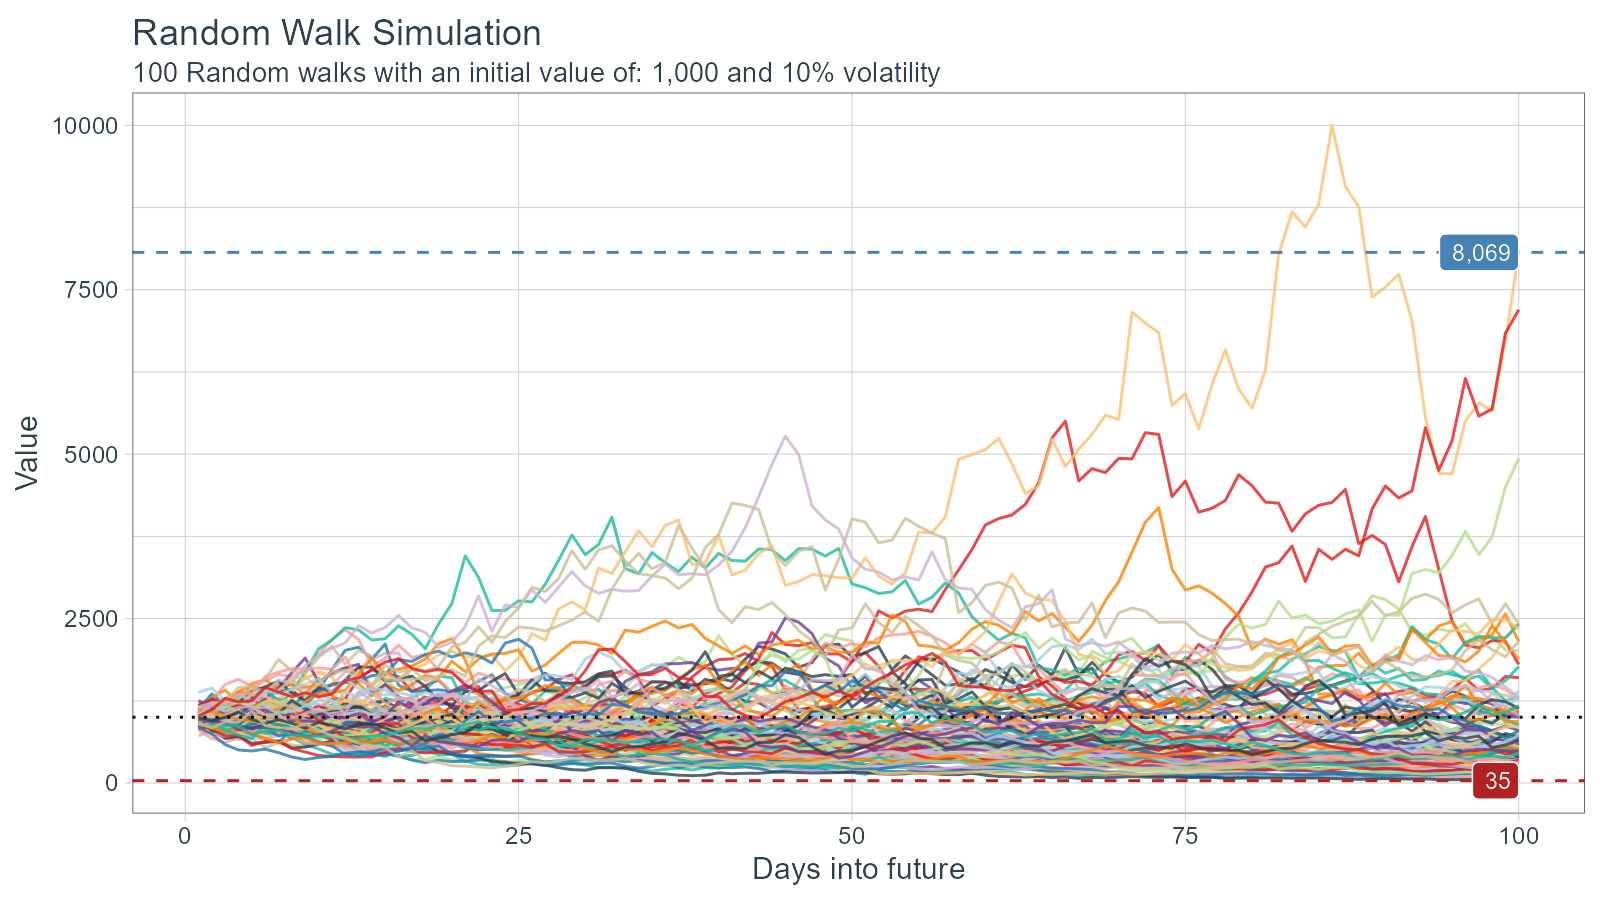
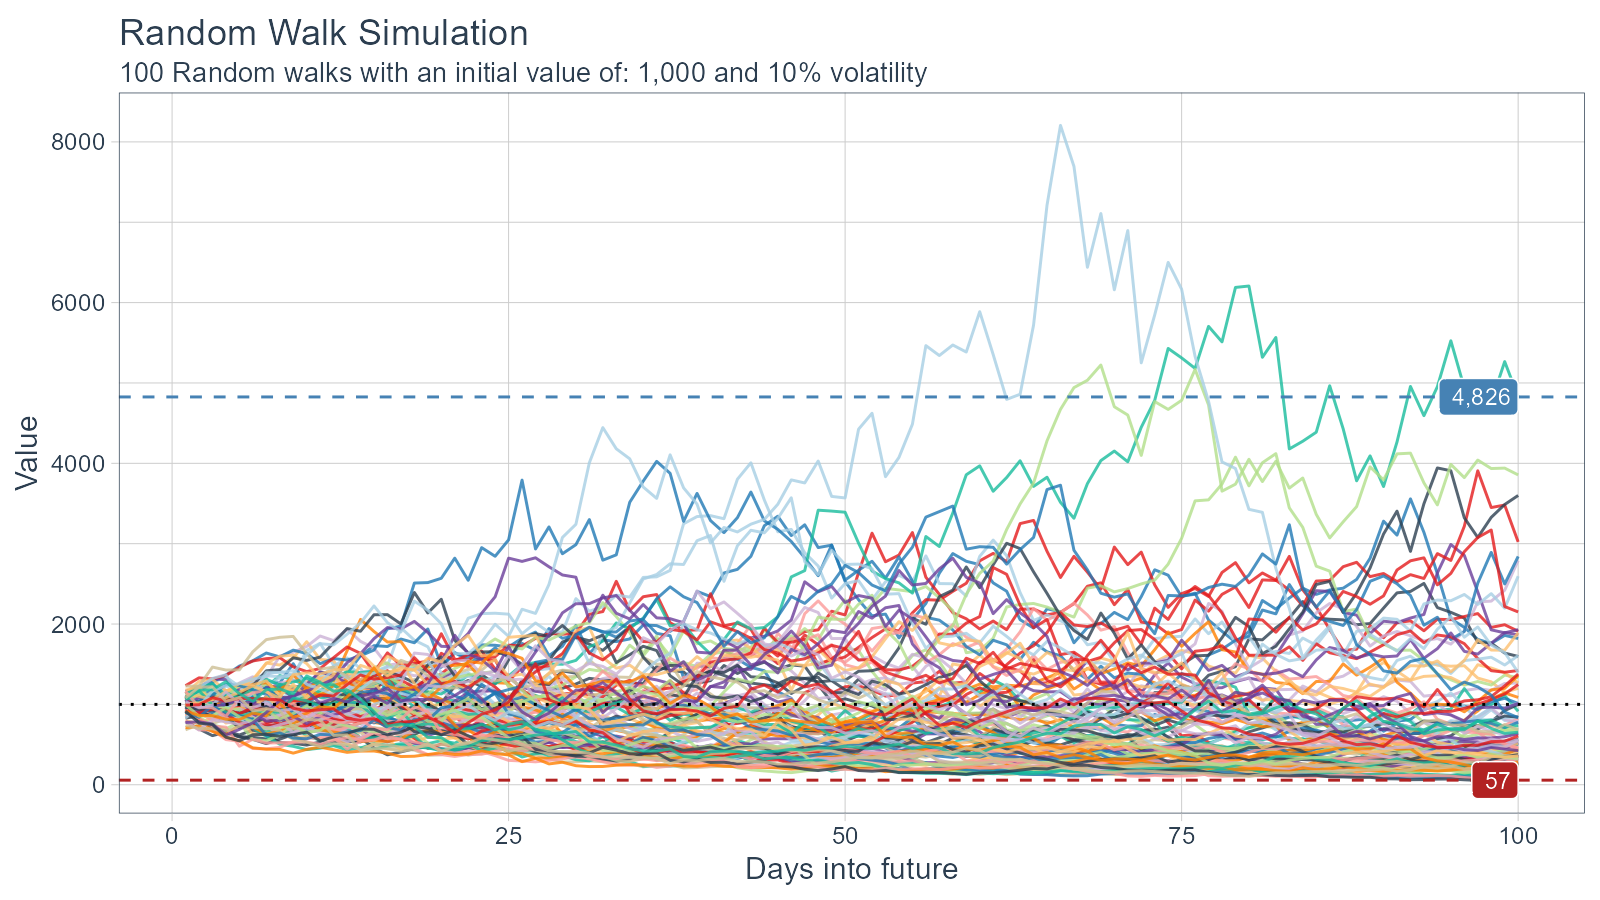
rebuild site

diff --git a/docs/articles/getting-started.html b/docs/articles/getting-started.html
@@ -93,7 +93,7 @@
             <h3 class="subtitle">A Quick Introduction</h3>
                         <h4 class="author">Steven P. Sanderson II, MPH</h4>
             
-            <h4 class="date">2020-12-26</h4>
+            <h4 class="date">2021-01-01</h4>
       
       <small class="dont-index">Source: <a href="https://github.com/spsanderson/healthyR.ts/blob/master/vignettes/getting-started.Rmd"><code>vignettes/getting-started.Rmd</code></a></small>
       <div class="hidden name"><code>getting-started.Rmd</code></div>
@@ -112,21 +112,21 @@
 <code class="sourceCode R"><span class="va">df</span> <span class="op">&lt;-</span> <span class="fu"><a href="../reference/ts_random_walk.html">ts_random_walk</a></span><span class="op">(</span><span class="op">)</span>
 <span class="fu"><a href="https://rdrr.io/r/utils/head.html">head</a></span><span class="op">(</span><span class="va">df</span><span class="op">)</span>
 <span class="co">#&gt; # A tibble: 6 x 4</span>
-<span class="co">#&gt;     run     x       y cum_y</span>
-<span class="co">#&gt;   &lt;dbl&gt; &lt;dbl&gt;   &lt;dbl&gt; &lt;dbl&gt;</span>
-<span class="co">#&gt; 1     1     1  0.0768 1077.</span>
-<span class="co">#&gt; 2     1     2  0.165  1255.</span>
-<span class="co">#&gt; 3     1     3 -0.0585 1181.</span>
-<span class="co">#&gt; 4     1     4  0.0622 1255.</span>
-<span class="co">#&gt; 5     1     5  0.0465 1313.</span>
-<span class="co">#&gt; 6     1     6 -0.0156 1292.</span>
+<span class="co">#&gt;     run     x        y cum_y</span>
+<span class="co">#&gt;   &lt;dbl&gt; &lt;dbl&gt;    &lt;dbl&gt; &lt;dbl&gt;</span>
+<span class="co">#&gt; 1     1     1  0.108   1108.</span>
+<span class="co">#&gt; 2     1     2 -0.0616  1039.</span>
+<span class="co">#&gt; 3     1     3 -0.0911   945.</span>
+<span class="co">#&gt; 4     1     4 -0.00480  940.</span>
+<span class="co">#&gt; 5     1     5 -0.0713   873.</span>
+<span class="co">#&gt; 6     1     6 -0.140    751.</span>
 <span class="fu"><a href="https://tibble.tidyverse.org/reference/glimpse.html">glimpse</a></span><span class="op">(</span><span class="va">df</span><span class="op">)</span>
 <span class="co">#&gt; Rows: 10,000</span>
 <span class="co">#&gt; Columns: 4</span>
 <span class="co">#&gt; $ run   &lt;dbl&gt; 1, 1, 1, 1, 1, 1, 1, 1, 1, 1, 1, 1, 1, 1, 1, 1, 1, 1, 1, 1, 1...</span>
 <span class="co">#&gt; $ x     &lt;dbl&gt; 1, 2, 3, 4, 5, 6, 7, 8, 9, 10, 11, 12, 13, 14, 15, 16, 17, 18...</span>
-<span class="co">#&gt; $ y     &lt;dbl&gt; 0.0767731086, 0.1651524579, -0.0585431368, 0.0621864575, 0.04...</span>
-<span class="co">#&gt; $ cum_y &lt;dbl&gt; 1076.7731, 1254.6048, 1181.1563, 1254.6083, 1312.9553, 1292.4...</span></code></pre></div>
+<span class="co">#&gt; $ y     &lt;dbl&gt; 0.107746839, -0.061622280, -0.091070825, -0.004799411, -0.071...</span>
+<span class="co">#&gt; $ cum_y &lt;dbl&gt; 1107.7468, 1039.4850, 944.8182, 940.2836, 873.2840, 751.2689,...</span></code></pre></div>
 <p>Now that the data has been generated, lets take a look at it.</p>
 <div class="sourceCode" id="cb3"><pre class="downlit sourceCode r">
 <code class="sourceCode R"><span class="va">df</span> <span class="op">%&gt;%</span>
